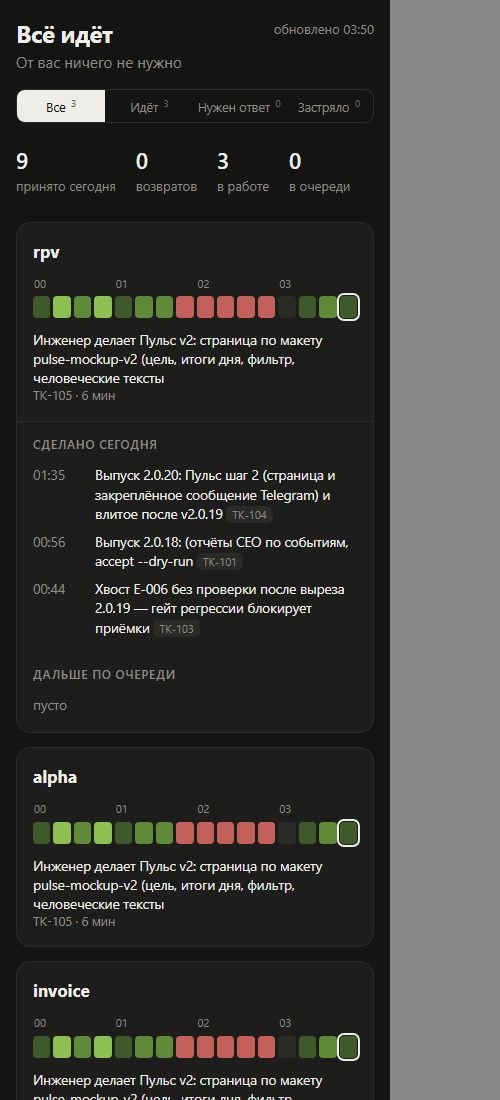
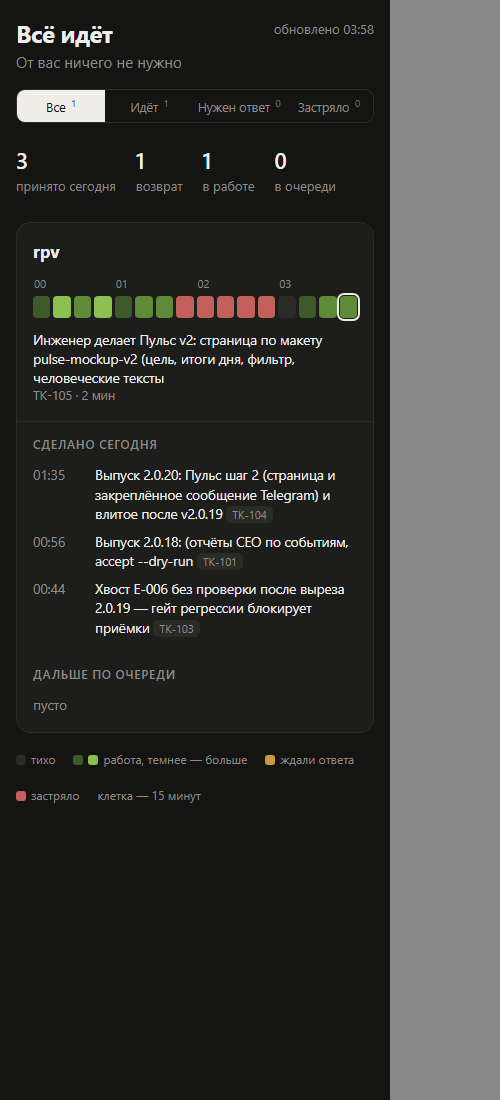
TK-105: возврат Судьи — test_dispatch под pulse.json v2, шаг и «из M» из одной строки, скриншоты только настоящего проекта (+ светлая тема)

diff --git a/docs/reviews/TK-105-pulse-shots.py b/docs/reviews/TK-105-pulse-shots.py
@@ -1,0 +1,68 @@
+"""TK-105: скриншоты Пульса v2 — рендер настоящих данных проекта (pulse.build по настоящим тикетам, state.json и runs.log корня)."""
+import copy
+import re
+import json
+import shutil
+import subprocess
+import sys
+from datetime import datetime
+from pathlib import Path
+
+WT = Path(r"C:\visual projects\role-play-vibing\.claude\worktrees\TK-105")
+ROOT = Path(r"C:\visual projects\role-play-vibing")
+OUT = WT / "docs" / "reviews"
+TMP = Path(r"C:\Users\3D6B~1\AppData\Local\Temp") / "tk105_shots"
+EDGE = r"C:\Program Files (x86)\Microsoft\Edge\Application\msedge.exe"
+sys.path[:0] = [str(WT / ".claude" / "dispatcher"), str(WT / ".claude" / "board")]
+import project_paths as CFG  # noqa: E402
+
+CFG.configure_project(ROOT)
+import pulse  # noqa: E402
+import pulse_server as S  # noqa: E402
+import pulse_view as V  # noqa: E402
+
+now = datetime.now().astimezone()
+state = json.loads((ROOT / ".claude" / "dispatcher" / "state.json").read_text(encoding="utf-8-sig"))
+real = pulse.build(copy.deepcopy(state), now)
+print("state:", real["state"], "goal:", real.get("goal"), "job:", real.get("job"), "day:", real.get("day"))
+
+variants = {"ok": real}
+first = (real.get("queue") or [{"ticket": "TK-105", "title": "Пульс v2"}])[0]
+owner = copy.deepcopy(real)
+owner.update(state="owner", ask={"ticket": first["ticket"], "question": first["title"]})
+for c in owner["cells"][max(0, V._slot(now) - 5):V._slot(now)]:
+    c["c"] = "owner"
+variants["owner"] = owner
+stuck = copy.deepcopy(real)
+stuck.update(state="stuck", fix={"text": "диспетчер молчит 23 мин", "who": "перезапускает CEO"})
+for c in stuck["cells"][max(0, V._slot(now) - 3):V._slot(now) + 1]:
+    c["c"] = "stuck"
+variants["stuck"] = stuck
+
+TMP.mkdir(exist_ok=True)
+DARK_RE = re.compile(r"@media \(prefers-color-scheme:dark\)\{(.*?\}\})", re.S)
+for name, data in variants.items():
+    page = S.page_html([V.normalise("rpv", data, now)], now)  # только настоящий проект этой копии, чужих карточек нет
+    if name == "ok":
+        page = page.replace('<details class="proj"', '<details class="proj" open', 1)
+    m = DARK_RE.search(page)
+    assert m, "блок тёмной темы не найден"
+    (TMP / f"{name}.html").write_text(page.replace(m.group(0), "@media all{" + m.group(1)), encoding="utf-8")  # тёмная — всегда
+    if name == "ok":
+        (TMP / "ok-light.html").write_text(page.replace(m.group(0), ""), encoding="utf-8")  # светлая — переменные :root страницы
+
+
+def shot(name, width, height, out):
+    args = [EDGE, "--headless=new", "--disable-gpu", f"--window-size={width},{height}", f"--screenshot={out}", "--hide-scrollbars"]
+    args.append((TMP / f"{name}.html").as_uri())
+    subprocess.run(args, check=True, capture_output=True, timeout=90)
+
+
+shot("ok", 1100, 900, OUT / "TK-105-pulse-wide-ok.png")
+shot("owner", 1100, 900, OUT / "TK-105-pulse-wide-owner.png")
+shot("stuck", 1100, 900, OUT / "TK-105-pulse-wide-stuck.png")
+for name in ("ok", "owner"):  # Edge headless не уже 500 px: телефон — рамка 390 px внутри окна
+    (TMP / f"phone-{name}.html").write_text(f'<body style="margin:0;background:#888"><iframe src="{(TMP / (name + ".html")).as_uri()}" width="390" height="1100" style="border:0"></iframe>', encoding="utf-8")
+    shot(f"phone-{name}", 500, 1100, OUT / f"TK-105-pulse-phone-{name}.png")
+shot("ok-light", 1100, 900, OUT / "TK-105-pulse-wide-light.png")
+print("готово")

diff --git a/.claude/dispatcher/test_pulse_facts.py b/.claude/dispatcher/test_pulse_facts.py
@@ -36,6 +36,13 @@ class GoalCardTests(FactsBase):
         card = F.goal_card(self.read(), [b, a])
         self.assertEqual((card["id"], card["step"], card["steps"]), ("G-002", 2, 3))
 
+    def test_steps_total_comes_from_the_line_of_the_highest_step(self):
+        self.goal("G-002")
+        a = self.ticket(ref="G-002", status="done", desc="Шаг 1 из 3 цели G-002.")
+        b = self.ticket(ref="G-002", status="in_progress", desc="Шаг 2 из 4 цели G-002.")
+        card = F.goal_card(self.read(), [a, b])
+        self.assertEqual((card["step"], card["steps"]), (2, 4), "«из M» берётся из строки шага 2, а не из первой найденной")
+
     def test_goal_without_plan_has_no_step(self):
         tid = self.ticket(status="in_progress")
         card = F.goal_card(self.read(), [tid])

diff --git a/.claude/dispatcher/pulse_facts.py b/.claude/dispatcher/pulse_facts.py
@@ -51,7 +51,7 @@ def goal_card(tickets, focus: list) -> dict | None:
         marks = [STEP_MARK.search(t.description) for t in tickets if t.status != "stopped"]
         marks = [(int(m.group(1)), int(m.group(2))) for m in marks if m and m.group(3) == gid]
         if marks:
-            card["step"], card["steps"] = max(n for n, _ in marks), marks[0][1]
+            card["step"], card["steps"] = max(marks)  # номер и «из M» — из одной строки (наибольший номер)
         return card
     return None
 

diff --git a/.claude/dispatcher/test_dispatch.py b/.claude/dispatcher/test_dispatch.py
@@ -811,7 +811,7 @@ class DispatchRunTests(unittest.TestCase):
         t0 = dt("2026-10-06T12:00:00+04:00")
         D.tick(t0)
         data = json.loads(self.dispatcher_dir.joinpath("pulse.json").read_text(encoding="utf-8"))
-        self.assertEqual((data["version"], len(data["cells"]), data["state"]), (1, 96, "ok"))
+        self.assertEqual((data["version"], len(data["cells"]), data["state"]), (2, 96, "ok"))
 
     def test_downtime_throttle_in_slo_and_limit_pause_outside(self):
         t0 = dt("2026-10-06T12:00:00+04:00")
